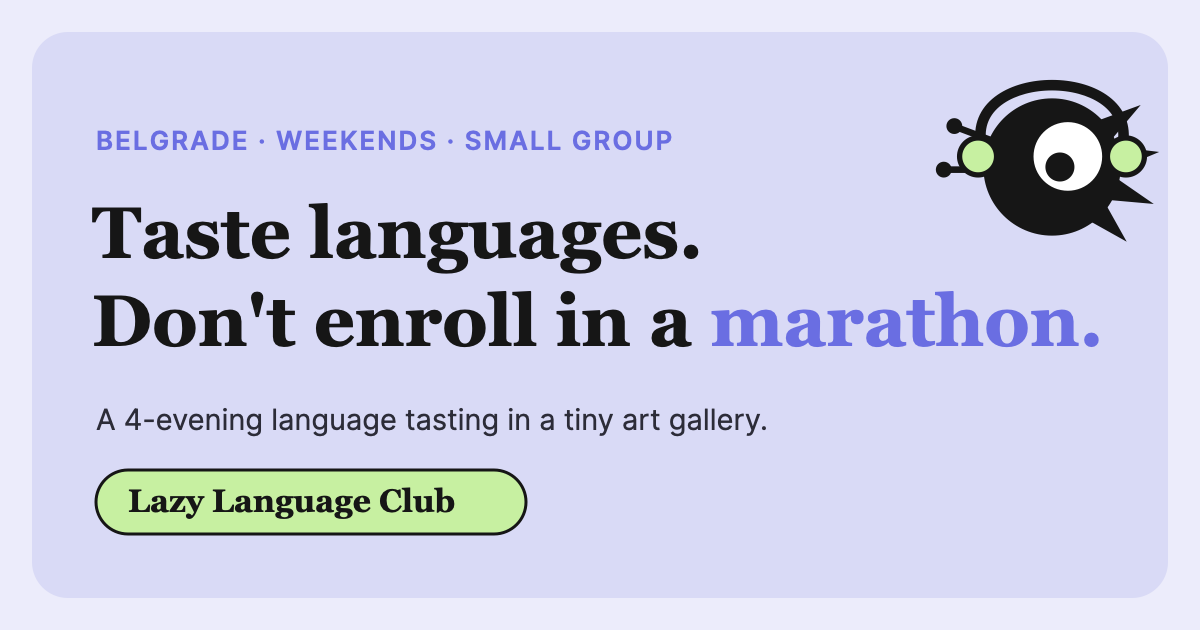
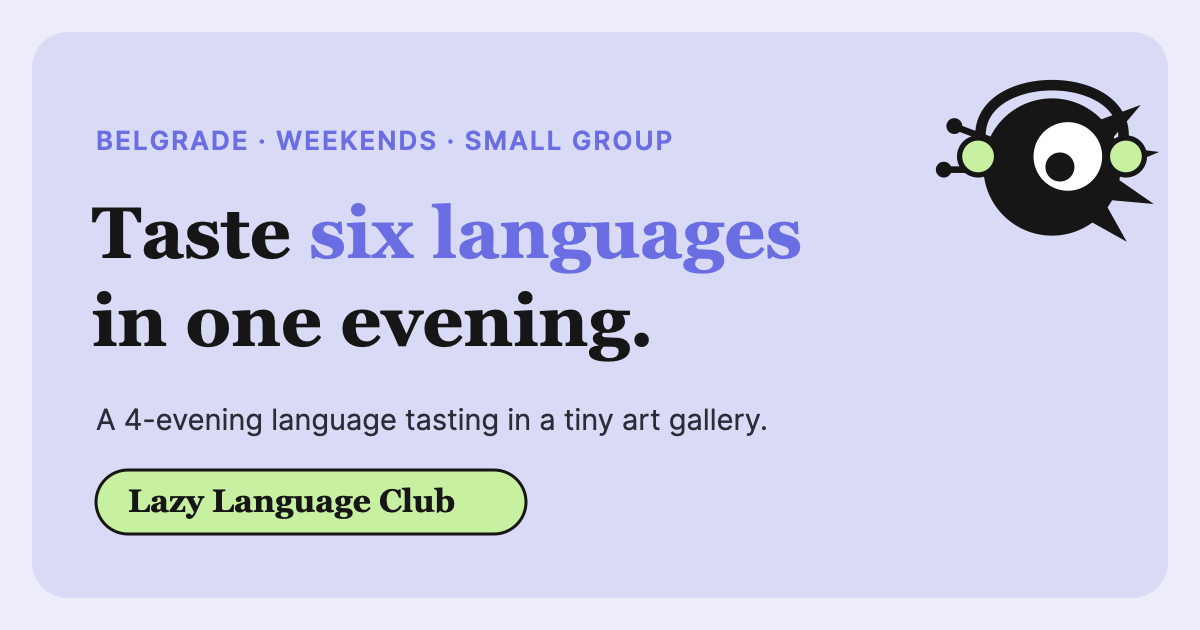
Mobile header/hero polish, guide contact links, refreshed OG image
- Mobile: brand on full-width line, EN/SR as inline text toggle,
  smaller Reserve button, tighter hero + page padding
- Guide section: "About me" (zaap.bio) + Telegram @user_k links (EN/SR)
- OG share image updated to "Taste six languages in one evening."

Changed region(s): [[0.0617, 0.3016, 0.925, 0.573]]

diff --git a/index.html b/index.html
@@ -93,7 +93,22 @@
   nav .links a{text-decoration:none;opacity:.8;}
   nav .links a:hover{opacity:1;}
   nav .links{display:none;}
+  nav .nav-actions{display:flex;align-items:center;gap:10px;}
   @media(min-width:760px){nav .links{display:flex;}}
+  /* mobile header cleanup: brand on its own full-width line, actions below */
+  @media(max-width:759px){
+    .wrap{padding:0 18px;}
+    nav{flex-wrap:wrap;gap:10px 12px;}
+    nav .brand{flex:1 1 100%;font-size:22px;}
+    nav .nav-actions{width:100%;justify-content:space-between;}
+    /* EN/SR as a compact inline text toggle (link style) */
+    .lang-switch{gap:0;font-size:14px;}
+    .lang-switch a{border:none;border-radius:0;padding:2px 0;opacity:.6;}
+    .lang-switch a.on{background:none;color:var(--ink);opacity:1;font-weight:600;text-decoration:underline;text-underline-offset:3px;}
+    .lang-switch a + a{margin-left:8px;padding-left:9px;border-left:1px solid var(--line);}
+    /* smaller reserve button */
+    header .cta-sm{padding:9px 15px;font-size:13px;white-space:nowrap;box-shadow:2px 2px 0 var(--ink);}
+  }
 
   /* buttons */
   .cta{display:inline-block;background:var(--mint);color:var(--ink);font-weight:500;font-size:17px;
@@ -104,9 +119,9 @@
   .cta-note{font-size:13px;color:var(--muted);margin-top:12px;}
 
   /* hero */
-  .hero{background:var(--lilac);border-radius:28px;padding:54px 48px;margin:18px 0 0;
+  .hero{background:var(--lilac);border-radius:24px;padding:30px 20px;margin:14px 0 0;
         display:grid;grid-template-columns:1fr;gap:18px;align-items:center;}
-  @media(min-width:760px){.hero{grid-template-columns:1.15fr .85fr;gap:24px;padding:58px 52px;}}
+  @media(min-width:760px){.hero{grid-template-columns:1.15fr .85fr;gap:24px;padding:58px 52px;border-radius:28px;margin-top:18px;}}
   .eyebrow{font-size:14px;letter-spacing:.04em;color:var(--blue);font-weight:500;margin-bottom:14px;}
   h1{font-size:42px;letter-spacing:-.01em;}
   @media(min-width:760px){h1{font-size:56px;}}
@@ -318,7 +333,7 @@
         <a href="#price">Price</a>
         <a href="#apply">Apply</a>
       </div>
-      <div style="display:flex;align-items:center;gap:10px;">
+      <div class="nav-actions">
         <span class="lang-switch" role="group" aria-label="Language / Jezik"><a class="on" href="index.html" aria-current="page" lang="en">EN</a><a href="sr.html" hreflang="sr" lang="sr">SR</a></span>
         <a class="cta cta-sm" href="https://docs.google.com/forms/d/e/1FAIpQLSckt-yKkWUbsH0DUhPLhLJKwjJsmKqELqTGbaXCW7Tk48m_gw/viewform" target="_blank" rel="noopener" data-cta="apply">Reserve a seat</a>
       </div>
@@ -456,6 +471,10 @@
         <p class="kicker">your guide</p>
         <h2>I'm Nelli — and I'm not a native speaker or a teacher.</h2>
         <p class="lead">That's the point. I started from zero and, using this method (shadowing + reading + tiny dialogues), I now read in 10+ languages and I've run a free online language club five times a week for two years. I'm not here to grade your grammar — I'm here to hand you a system that actually worked on me, and make the room feel safe and fun. The native pronunciation comes from recordings. I bring the method, the structure, and the energy.</p>
+        <p class="cta-note" style="margin-top:14px;">
+          <a href="https://zaap.bio/nellikam" target="_blank" rel="noopener" style="color:var(--blue);">More about me ↗</a>
+          &nbsp;·&nbsp; tg: <a href="https://t.me/nelly_k" target="_blank" rel="noopener" style="color:var(--blue);">@nelly_k</a>
+        </p>
       </div>
     </div>
   </section>

diff --git a/sr.html b/sr.html
@@ -91,16 +91,31 @@
   nav .links a{text-decoration:none;opacity:.8;}
   nav .links a:hover{opacity:1;}
   nav .links{display:none;}
+  nav .nav-actions{display:flex;align-items:center;gap:10px;}
   @media(min-width:760px){nav .links{display:flex;}}
+  /* mobile header cleanup: brand on its own full-width line, actions below */
+  @media(max-width:759px){
+    .wrap{padding:0 18px;}
+    nav{flex-wrap:wrap;gap:10px 12px;}
+    nav .brand{flex:1 1 100%;font-size:22px;}
+    nav .nav-actions{width:100%;justify-content:space-between;}
+    /* EN/SR as a compact inline text toggle (link style) */
+    .lang-switch{gap:0;font-size:14px;}
+    .lang-switch a{border:none;border-radius:0;padding:2px 0;opacity:.6;}
+    .lang-switch a.on{background:none;color:var(--ink);opacity:1;font-weight:600;text-decoration:underline;text-underline-offset:3px;}
+    .lang-switch a + a{margin-left:8px;padding-left:9px;border-left:1px solid var(--line);}
+    /* smaller reserve button */
+    header .cta-sm{padding:9px 15px;font-size:13px;white-space:nowrap;box-shadow:2px 2px 0 var(--ink);}
+  }
   .cta{display:inline-block;background:var(--mint);color:var(--ink);font-weight:500;font-size:17px;
        padding:15px 30px;border-radius:14px;text-decoration:none;border:2px solid var(--ink);
        box-shadow:3px 3px 0 var(--ink);transition:transform .08s,box-shadow .08s;}
   .cta:hover{transform:translate(1px,1px);box-shadow:2px 2px 0 var(--ink);}
   .cta-sm{padding:11px 20px;font-size:15px;box-shadow:2px 2px 0 var(--ink);}
   .cta-note{font-size:13px;color:var(--muted);margin-top:12px;}
-  .hero{background:var(--lilac);border-radius:28px;padding:54px 48px;margin:18px 0 0;
+  .hero{background:var(--lilac);border-radius:24px;padding:30px 20px;margin:14px 0 0;
         display:grid;grid-template-columns:1fr;gap:18px;align-items:center;}
-  @media(min-width:760px){.hero{grid-template-columns:1.15fr .85fr;gap:24px;padding:58px 52px;}}
+  @media(min-width:760px){.hero{grid-template-columns:1.15fr .85fr;gap:24px;padding:58px 52px;border-radius:28px;margin-top:18px;}}
   .eyebrow{font-size:14px;letter-spacing:.04em;color:var(--blue);font-weight:500;margin-bottom:14px;}
   h1{font-size:42px;letter-spacing:-.01em;}
   @media(min-width:760px){h1{font-size:56px;}}
@@ -286,7 +301,7 @@
         <a href="#price">Cena</a>
         <a href="#apply">Prijava</a>
       </div>
-      <div style="display:flex;align-items:center;gap:10px;">
+      <div class="nav-actions">
         <span class="lang-switch" role="group" aria-label="Language / Jezik"><a href="index.html" hreflang="en" lang="en">EN</a><a class="on" href="sr.html" aria-current="page" lang="sr">SR</a></span>
         <a class="cta cta-sm" href="https://docs.google.com/forms/d/e/1FAIpQLSckt-yKkWUbsH0DUhPLhLJKwjJsmKqELqTGbaXCW7Tk48m_gw/viewform" target="_blank" rel="noopener" data-cta="apply">Rezerviši mesto</a>
       </div>
@@ -417,6 +432,10 @@
         <p class="kicker">tvoj vodič</p>
         <h2>Ja sam Neli — i nisam izvorni govornik ni nastavnik.</h2>
         <p class="lead">U tome je poenta. Krenula sam od nule i, koristeći ovaj metod (shadowing + čitanje + mali dijalozi), sada čitam na 10+ jezika i dve godine vodim besplatan onlajn jezički klub pet puta nedeljno. Nisam tu da ti ocenjujem gramatiku — tu sam da ti dam sistem koji je stvarno upalio kod mene i da prostor učinim bezbednim i zabavnim. Izgovor izvornih govornika dolazi iz snimaka. Ja donosim metod, strukturu i energiju.</p>
+        <p class="cta-note" style="margin-top:14px;">
+          <a href="https://zaap.bio/nellikam" target="_blank" rel="noopener" style="color:var(--blue);">Više o meni ↗</a>
+          &nbsp;·&nbsp; tg: <a href="https://t.me/nelly_k" target="_blank" rel="noopener" style="color:var(--blue);">@nelly_k</a>
+        </p>
       </div>
     </div>
   </section>